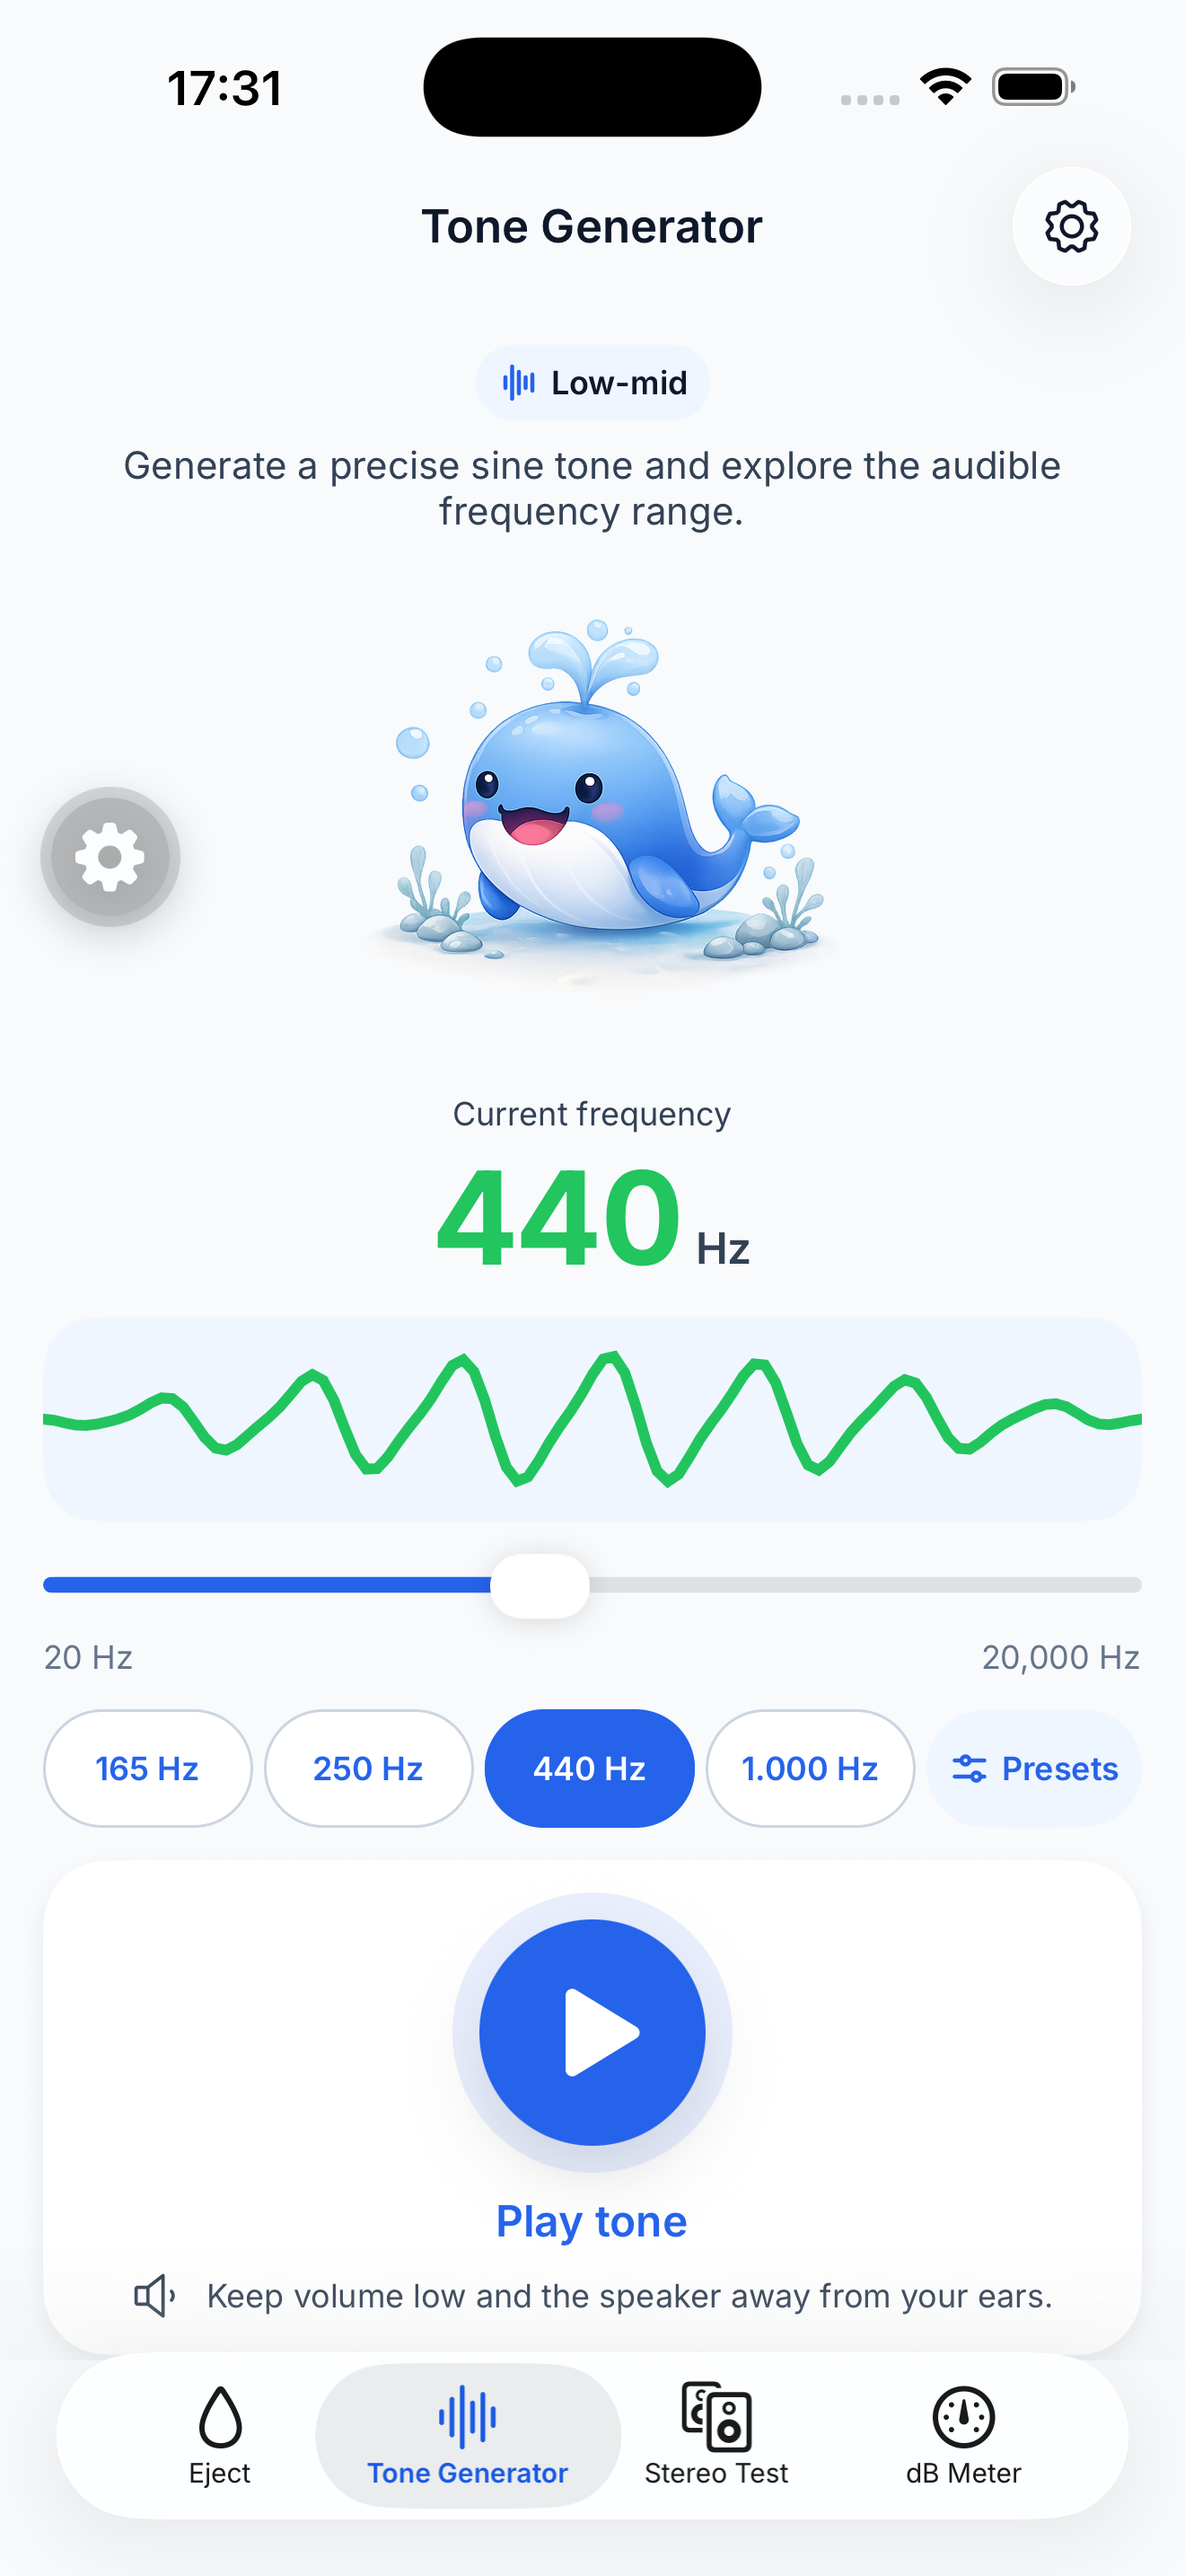
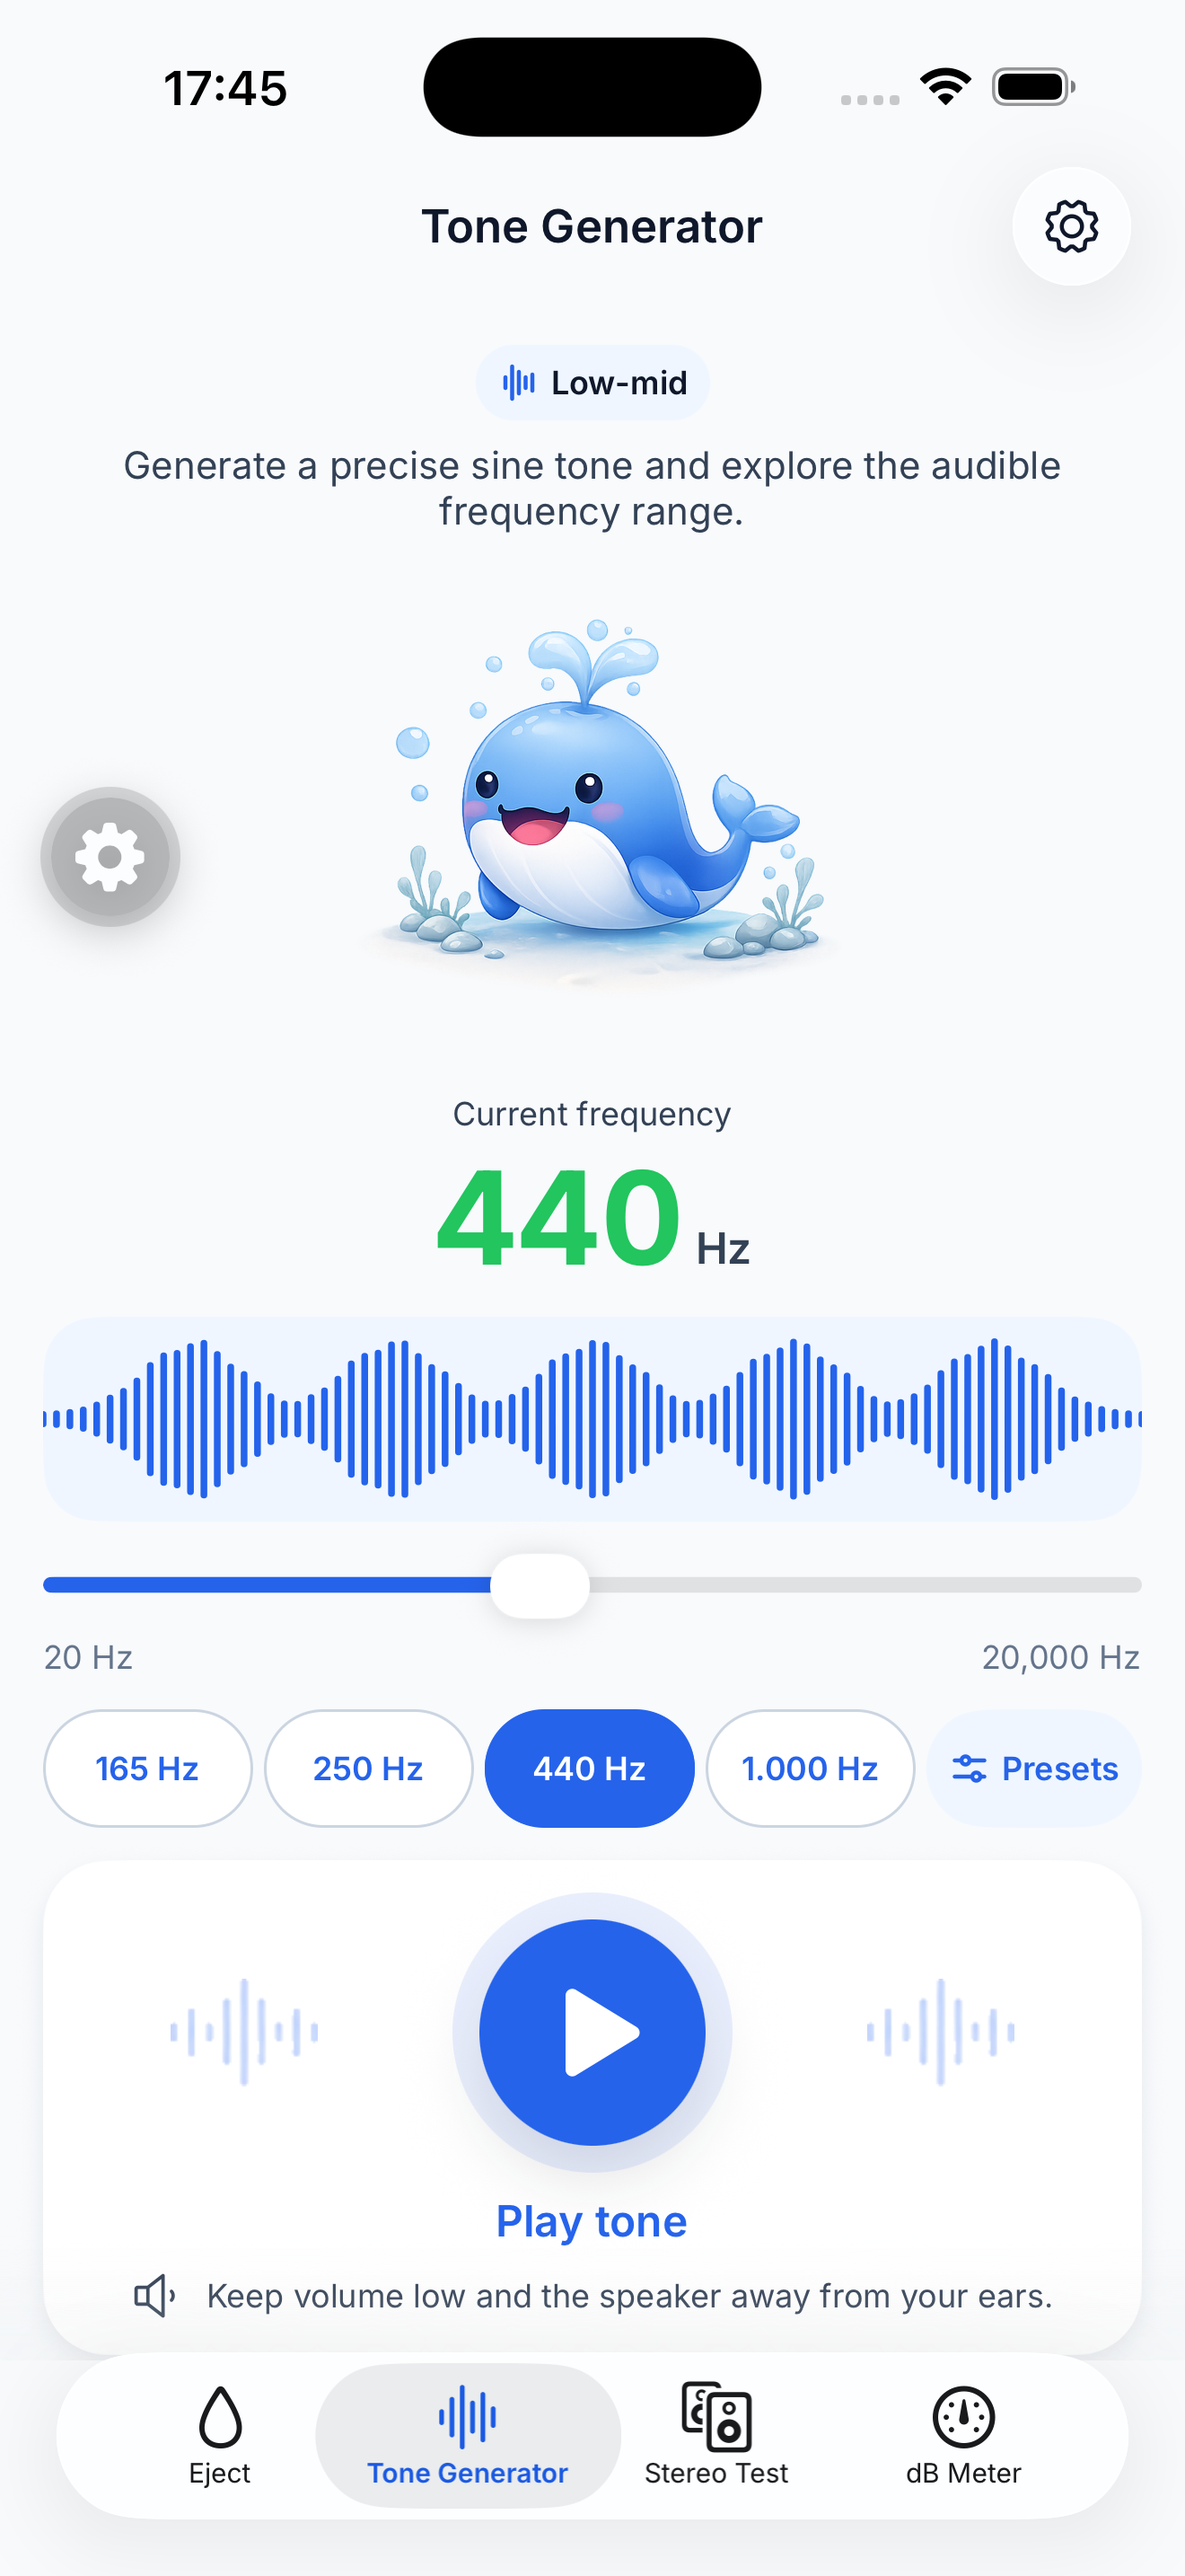
fix(tone): match waveform details

diff --git a/src/app/(tabs)/tone-generator/index.tsx b/src/app/(tabs)/tone-generator/index.tsx
@@ -1,3 +1,4 @@
+import { Image } from 'expo-image'
 import { SlidersHorizontalIcon, SpeakerLowIcon, WaveformIcon } from 'phosphor-react-native'
 import { useEffect, useState } from 'react'
 import { useTranslation } from 'react-i18next'
@@ -137,13 +138,37 @@ export default function ToneGeneratorScreen() {
 
   const actionDock = (
     <View style={[styles.actionDock, isCompactLayout && styles.actionDockCompact]}>
-      <CircularAudioButton
-        active={isActive}
-        loading={isStarting || snapshot.status === 'stopping'}
-        haptic={hapticsEnabled}
-        accessibilityLabel={isActive ? t('audioTools.tone.stop') : t('audioTools.tone.play')}
-        onPress={handleMainPress}
-      />
+      <View style={styles.actionControlRow}>
+        <View
+          accessible={false}
+          accessibilityElementsHidden
+          importantForAccessibility="no-hide-descendants"
+          style={styles.actionOrnament}>
+          <Image
+            source={require('@/assets/images/tone-wave-ornament.png')}
+            contentFit="contain"
+            style={styles.actionOrnamentImage}
+          />
+        </View>
+        <CircularAudioButton
+          active={isActive}
+          loading={isStarting || snapshot.status === 'stopping'}
+          haptic={hapticsEnabled}
+          accessibilityLabel={isActive ? t('audioTools.tone.stop') : t('audioTools.tone.play')}
+          onPress={handleMainPress}
+        />
+        <View
+          accessible={false}
+          accessibilityElementsHidden
+          importantForAccessibility="no-hide-descendants"
+          style={styles.actionOrnament}>
+          <Image
+            source={require('@/assets/images/tone-wave-ornament.png')}
+            contentFit="contain"
+            style={styles.actionOrnamentImage}
+          />
+        </View>
+      </View>
       <Text variant="subtitle" weight="semibold" tone="accent" align="center">
         {isActive ? t('audioTools.tone.stop') : t('audioTools.tone.play')}
       </Text>
@@ -218,7 +243,7 @@ export default function ToneGeneratorScreen() {
               <FrequencyWaveform
                 frequencyHz={frequencyHz}
                 active={isRunning}
-                color={waveformColor}
+                color={theme.colors.primary.main}
                 accessibilityLabel={t('audioTools.tone.waveformLabel', {
                   frequency: formattedFrequency,
                 })}
@@ -399,6 +424,21 @@ const createStyles = createThemedStyles((t) => ({
     borderRadius: t.borderRadius['2xl'],
     backgroundColor: t.colors.background.surface,
     ...t.shadows.sm,
+  },
+  actionControlRow: {
+    width: '100%',
+    flexDirection: 'row',
+    alignItems: 'center',
+    justifyContent: 'space-around',
+  },
+  actionOrnament: {
+    width: iconSizes.hero,
+    alignItems: 'center',
+    justifyContent: 'center',
+  },
+  actionOrnamentImage: {
+    width: '100%',
+    height: iconSizes.xl,
   },
   actionDockCompact: {
     gap: t.spacing.xs,

diff --git a/src/components/audio/FrequencyWaveform.tsx b/src/components/audio/FrequencyWaveform.tsx
@@ -45,20 +45,29 @@ export const FrequencyWaveform = ({
     if (canvasWidth <= 0 || canvasHeight <= 0) return
 
     const centerY = canvasHeight / 2
-    const cycles = 2 + normalizedFrequency.value * 12
-    const amplitude = canvasHeight * (0.2 + (1 - normalizedFrequency.value) * 0.16)
-    const phase = isActive.value ? clock.value / 340 : 0
-    const points = Math.max(Math.round(canvasWidth / 4), 48)
+    const barCount = Math.max(Math.round(canvasWidth / 5), 48)
+    const pulseCount = 3 + Math.round(normalizedFrequency.value * 4)
+    const activePhase = isActive.value ? clock.value / 220 : 0
 
-    for (let index = 0; index <= points; index += 1) {
-      const progress = index / points
-      const edgeFade = Math.sin(progress * Math.PI)
-      const harmonic = Math.sin(progress * Math.PI * cycles * 2 + phase)
-      const detail = Math.sin(progress * Math.PI * cycles * 4 - phase * 0.65) * 0.22
-      const y = centerY + (harmonic + detail) * amplitude * edgeFade
+    for (let index = 0; index <= barCount; index += 1) {
+      const progress = index / barCount
+      let envelope = 0
+
+      for (let pulse = 0; pulse < pulseCount; pulse += 1) {
+        const pulseCenter = (pulse + 0.75) / (pulseCount + 0.5)
+        const distance = (progress - pulseCenter) * pulseCount * 3.2
+        envelope = Math.max(envelope, Math.exp(-(distance * distance)))
+      }
+
+      const barTexture = 0.94 + Math.sin(index * 1.7) * 0.06
+      const activeScale = isActive.value
+        ? 0.92 + Math.sin(activePhase + progress * Math.PI * 4) * 0.08
+        : 1
+      const barHeight = 3 + envelope * canvasHeight * 0.72 * barTexture * activeScale
       const x = progress * canvasWidth
-      if (index === 0) builder.moveTo(x, y)
-      else builder.lineTo(x, y)
+
+      builder.moveTo(x, centerY - barHeight / 2)
+      builder.lineTo(x, centerY + barHeight / 2)
     }
   })
 
@@ -75,7 +84,7 @@ export const FrequencyWaveform = ({
       onLayout={handleLayout}
       style={[styles.container, style]}>
       <Canvas pointerEvents="none" style={styles.canvas}>
-        <Path path={path} color={color} style="stroke" strokeWidth={4} strokeCap="round" />
+        <Path path={path} color={color} style="stroke" strokeWidth={2.5} strokeCap="round" />
       </Canvas>
     </View>
   )

diff --git a/design-qa.md b/design-qa.md
@@ -72,10 +72,10 @@ The idle layout matches the selected Option 1 hierarchy and the running state pr
 - No actionable P0, P1, or P2 mismatch remains.
 - Fonts and typography: the implementation preserves the app's configured type system, hierarchy, tabular frequency numerals, weights, wrapping, and localized labels. The native header and compact control labels remain legible without truncation.
 - Spacing and layout rhythm: the status, subtitle, mascot, frequency block, gauge, presets, and Play tone card follow the approved vertical hierarchy. The action card is now a sibling of those sections inside `AudioToolScreen`'s content container; the separate footer wrapper has been removed.
-- Colors and visual tokens: surfaces, borders, shadows, and controls use project theme tokens. The 440 Hz green treatment is the existing semantic low-mid band color and is an intentional product behavior rather than design drift.
-- Image quality and asset fidelity: the existing whale mascot asset is sharp, correctly cropped, and uses no placeholder or code-drawn substitute. The simulator's gray floating gear at the left edge is a Simulator Tools overlay, not app UI.
+- Colors and visual tokens: surfaces, borders, shadows, and controls use project theme tokens. The refined gauge now uses the approved primary-blue treatment while the 440 Hz readout retains the existing semantic low-mid band color as intentional product behavior.
+- Image quality and asset fidelity: the existing whale mascot asset is sharp and correctly cropped. The Play/Stop card uses the user-supplied waveform ornament with its background removed and transparency preserved; it is not an icon approximation or code-drawn substitute. The simulator's gray floating gear at the left edge is a Simulator Tools overlay, not app UI.
 - Copy and content: title, frequency status, subtitle, presets, Play/Stop label, and safety guidance are localized and complete. The safety sentence is intentionally more explicit than the abbreviated mock copy.
-- Native product differences: the implementation retains the real iOS status bar, native header spacing, settings control, and app tab bar. Decorative side wave marks from the concept are omitted in favor of the app's established component language.
+- Native product differences: the implementation retains the real iOS status bar, native header spacing, settings control, and app tab bar.
 
 ## Interaction and accessibility verification
 
@@ -90,10 +90,11 @@ The idle layout matches the selected Option 1 hierarchy and the running state pr
 1. The first focused implementation comparison found a P2 mascot-scale mismatch: the whale was too small and retained decorative rings. The mascot was enlarged and `showWaves={false}` was applied.
 2. The revised comparison confirmed improved mascot weight and preserved the separate waveform panel and slider selected from Design 2. Remaining differences were classified as intentional native/product behavior or P3 polish.
 3. After the user's inline-card refinement, the sticky footer API was removed, the Play tone card was inserted after the presets in the same content parent, and idle/running Pro Max captures were regenerated. The final comparison shows the complete card clear of the tab bar with no new P0/P1/P2 issue.
+4. The latest comparison identified the line-wave gauge and missing action-card ornaments as remaining source mismatches. The gauge was rebuilt as a responsive five-cluster rounded-bar waveform in primary blue, the exact supplied ornament was placed on both sides of the primary control, and idle/running evidence was regenerated. The post-fix comparison shows both details aligned with the approved source.
 
 ## Follow-up polish
 
-- P3: the approved concept uses a slightly larger mascot and decorative action-card wave marks. These may be revisited later if closer concept fidelity is preferred over the current product component language.
+- P3: the approved concept uses a slightly larger mascot. This may be revisited later if closer concept fidelity is preferred over the current product proportions.
 
 ## Final result
 
